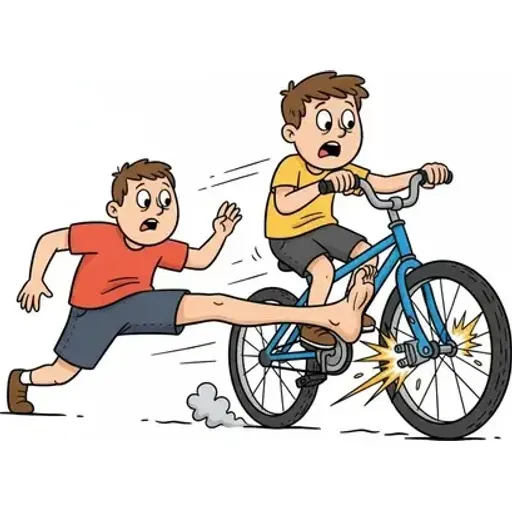
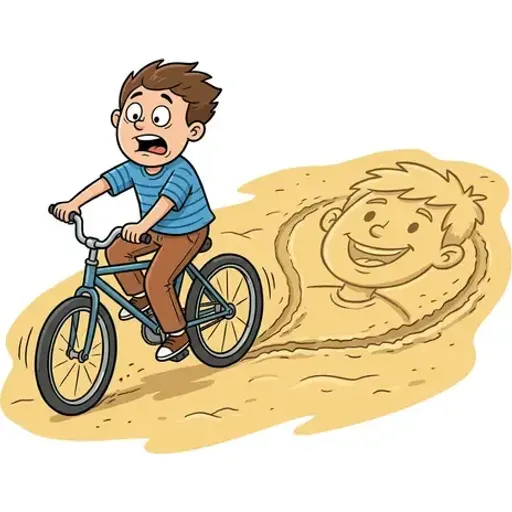
friend: yeni hikaye ve resim

diff --git a/kelime/friend-ne-demek.html b/kelime/friend-ne-demek.html
@@ -335,10 +335,10 @@
         <p class="ornek-cumle">He is my best friend.<span>O benim en iyi arkadaşım.</span></p>
         <h2>Nasıl akılda kalır?</h2>
         <p class="kanca-zinciri">friend → <mark>FREN</mark> → <b>arkadaş</b></p>
-        <p class="hikaye"><mark>FREN</mark>i bozulan bisikletimi, en iyi <b>ARKADAŞ</b>ım bütün öğleden sonra uğraşıp tamir etti.</p>
+        <p class="hikaye"><mark>FREN</mark> yapıp kumda kayan çocuk, arkasında en iyi <b>ARKADAŞ</b>ının resmini bıraktı.</p>
         <p>friend kelimesini görünce önce <mark>FREN</mark> aklına gelsin, sonra bu sahne, sonra "arkadaş". Sahneyi birkaç saniye gözünde canlandır; birkaç tekrardan sonra kancaya gerek kalmadan hatırlarsın. Yöntemin tamamı <a href="/ingilizce-kelime-ezberleme.html">kanca yöntemi rehberinde</a>.</p>
       </div>
-      <img src="/resim/friend.webp" alt="friend kelimesini hatırlatan çizim: FRENi bozulan bisikletimi, en iyi ARKADAŞım bütün öğleden sonra uğraşıp tamir etti." width="512" height="512">
+      <img src="/resim/friend.webp" alt="friend kelimesini hatırlatan çizim: FREN yapıp kumda kayan çocuk, arkasında en iyi ARKADAŞının resmini bıraktı." width="512" height="512">
     </div>
   </div>
 
